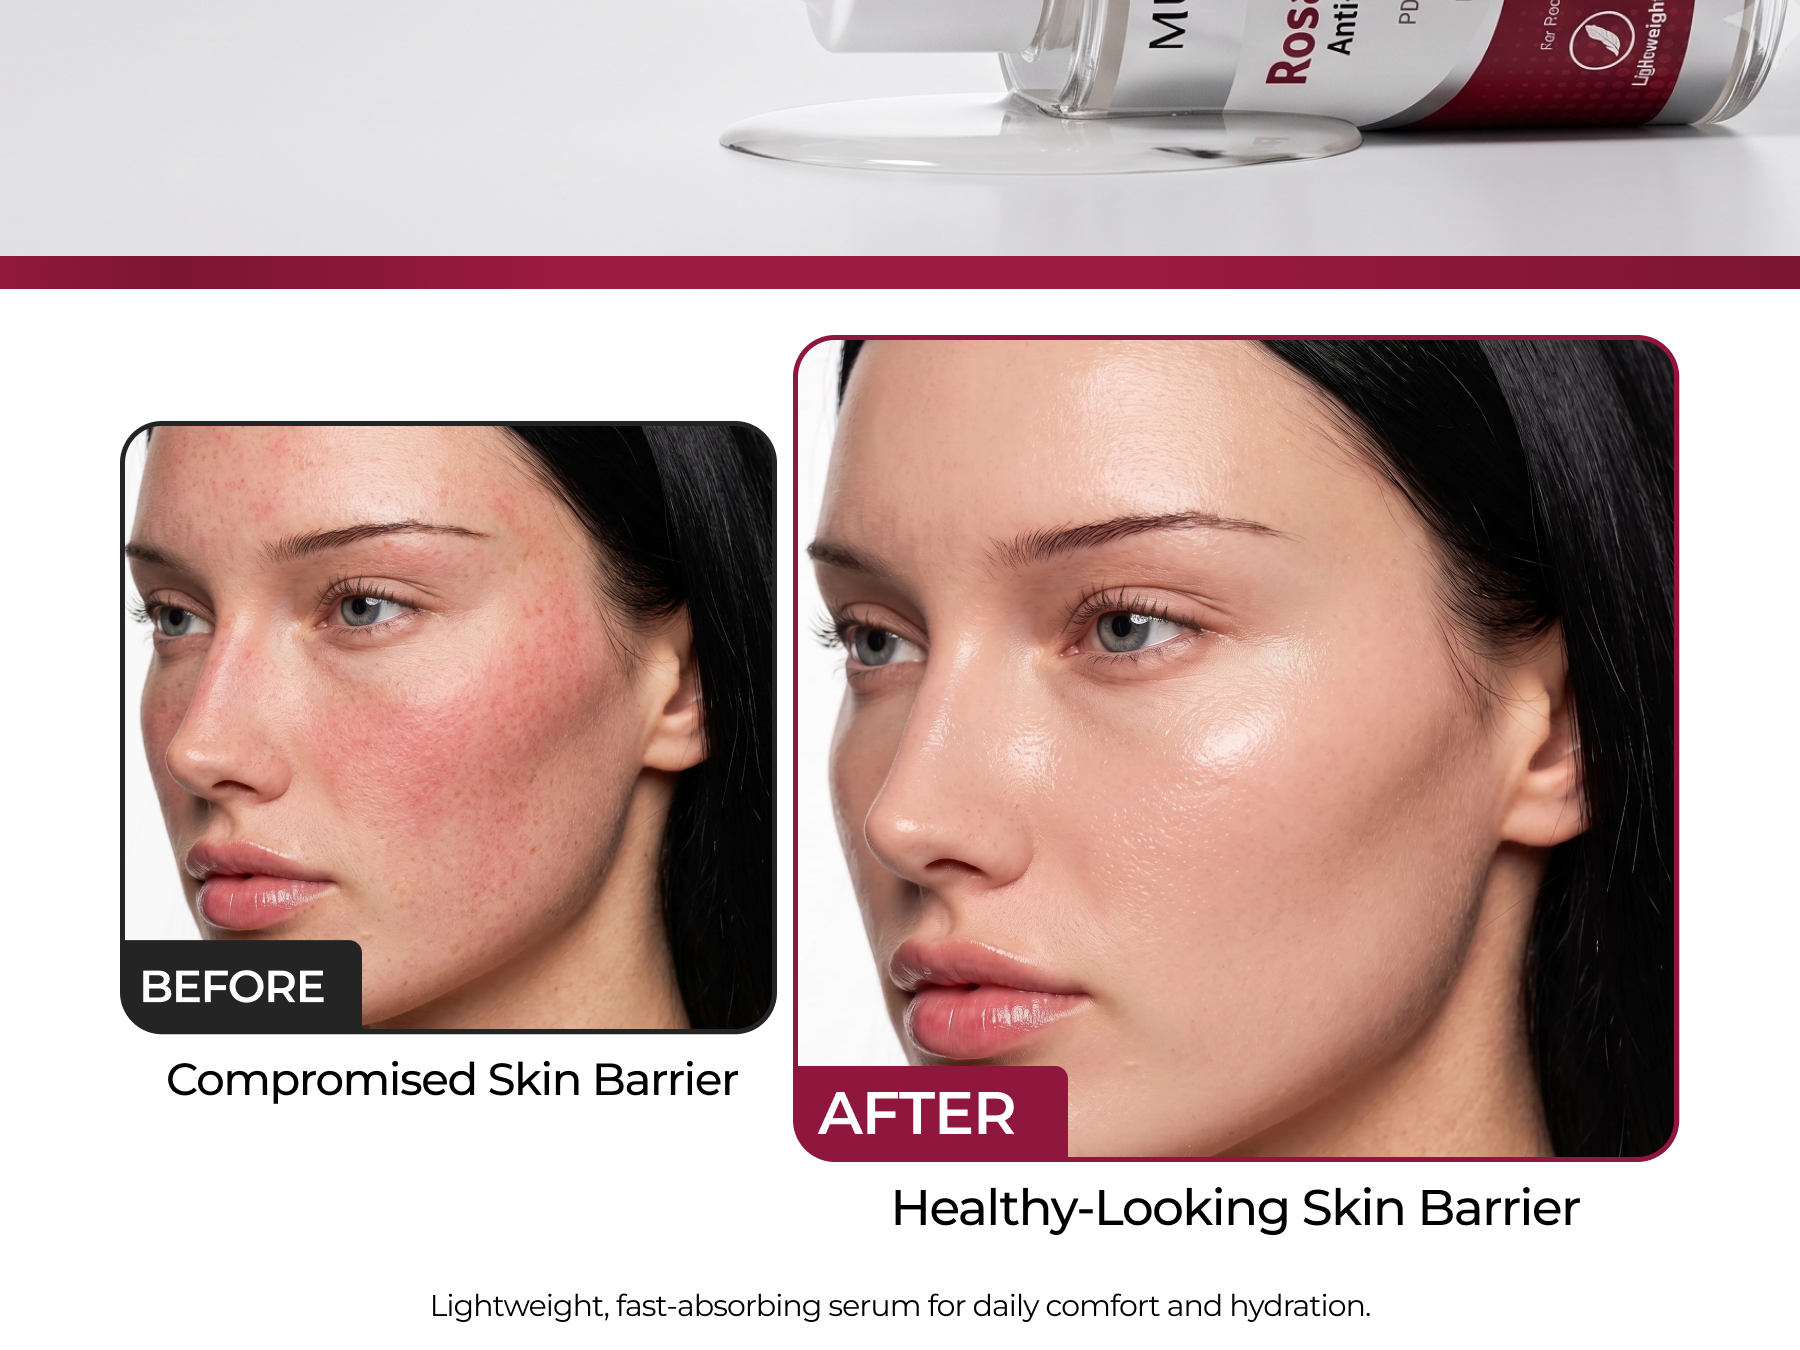
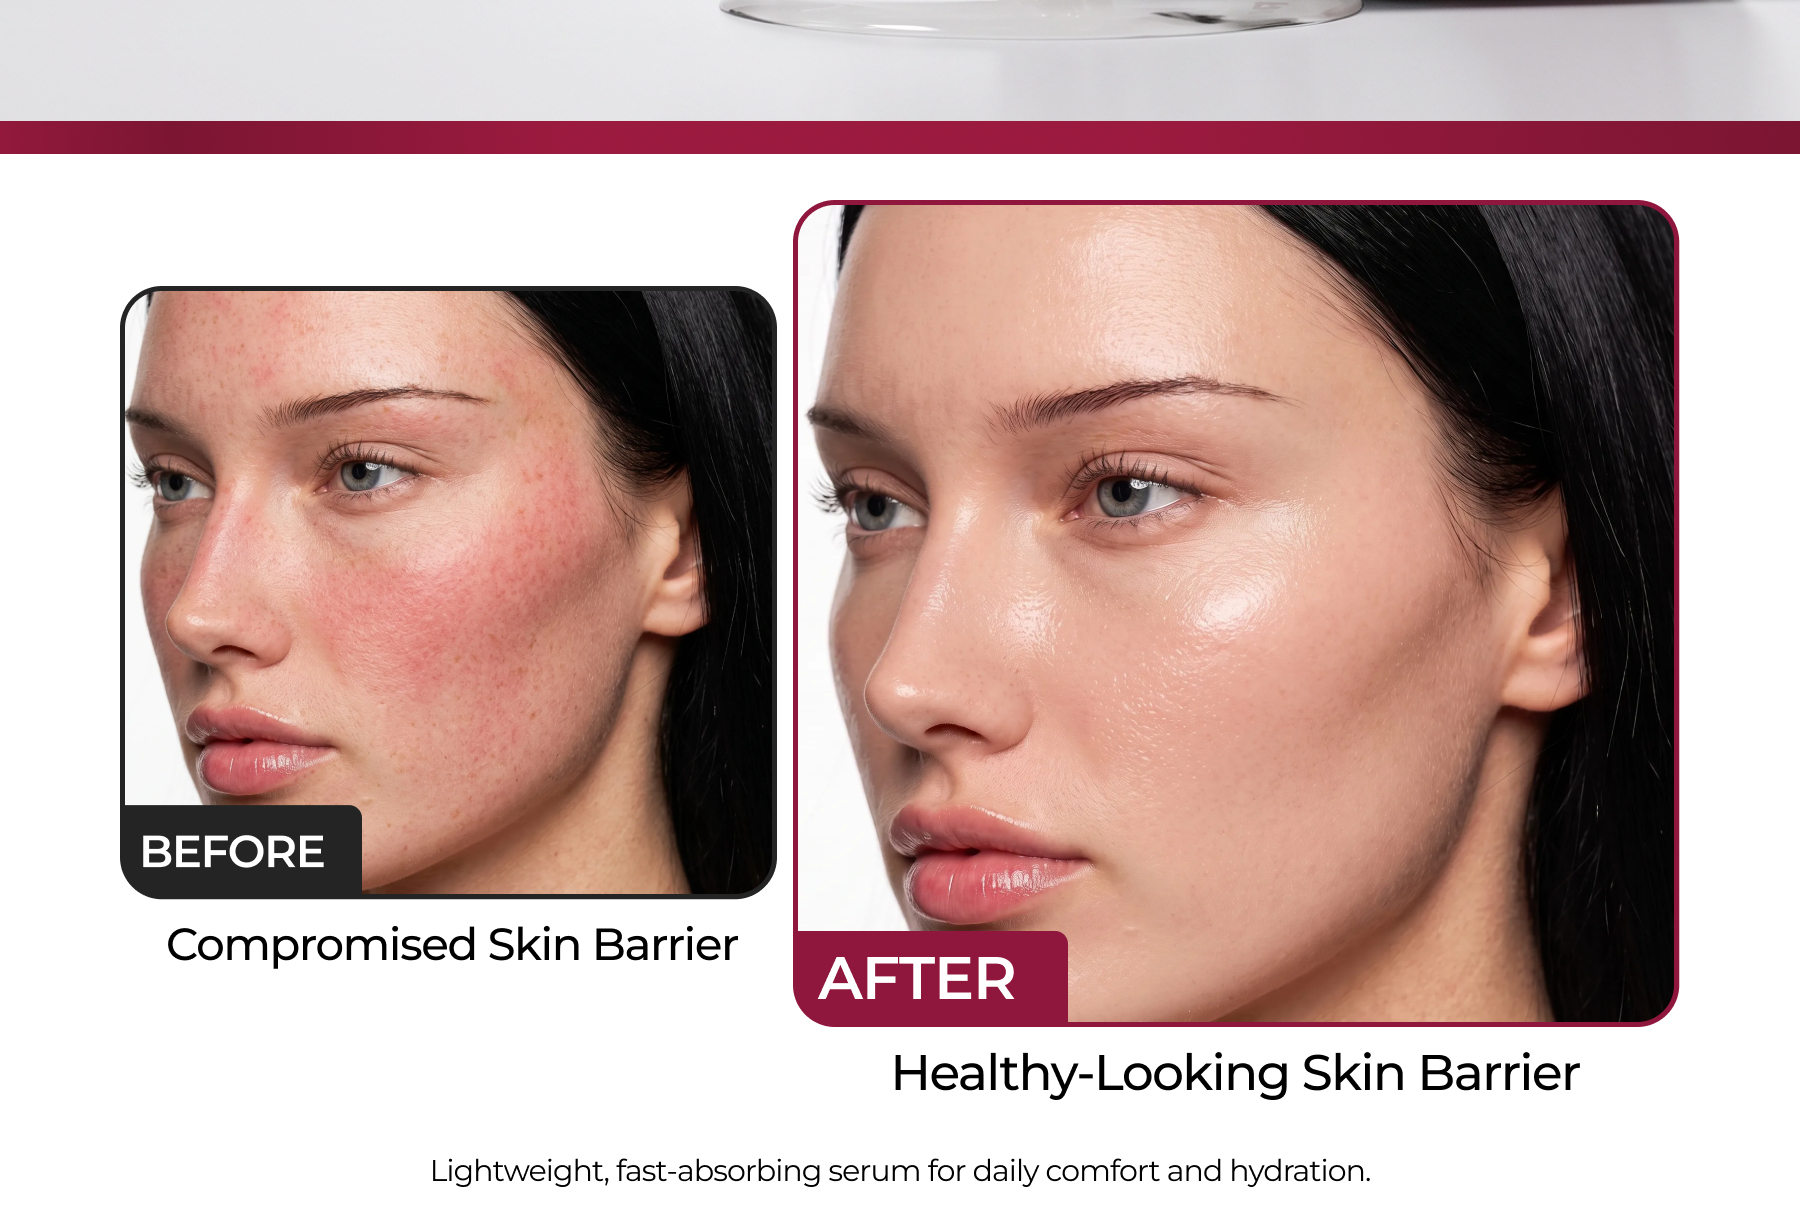
Crop top of barrier repair before/after image

diff --git a/components/BeforeAfter.jsx b/components/BeforeAfter.jsx
@@ -17,7 +17,7 @@ export default function BeforeAfter() {
               src="/images/Frame 259.png"
               alt="Before: compromised skin barrier. After: healthy-looking skin barrier."
               width={1800}
-              height={1350}
+              height={1215}
               className="h-auto w-full rounded-2xl"
             />
           </div>
@@ -26,7 +26,7 @@ export default function BeforeAfter() {
               src="/images/Frame 259.png"
               alt="Before: compromised skin barrier. After: healthy-looking skin barrier."
               width={1800}
-              height={1350}
+              height={1215}
               className="h-auto w-full rounded-2xl"
             />
           </div>
